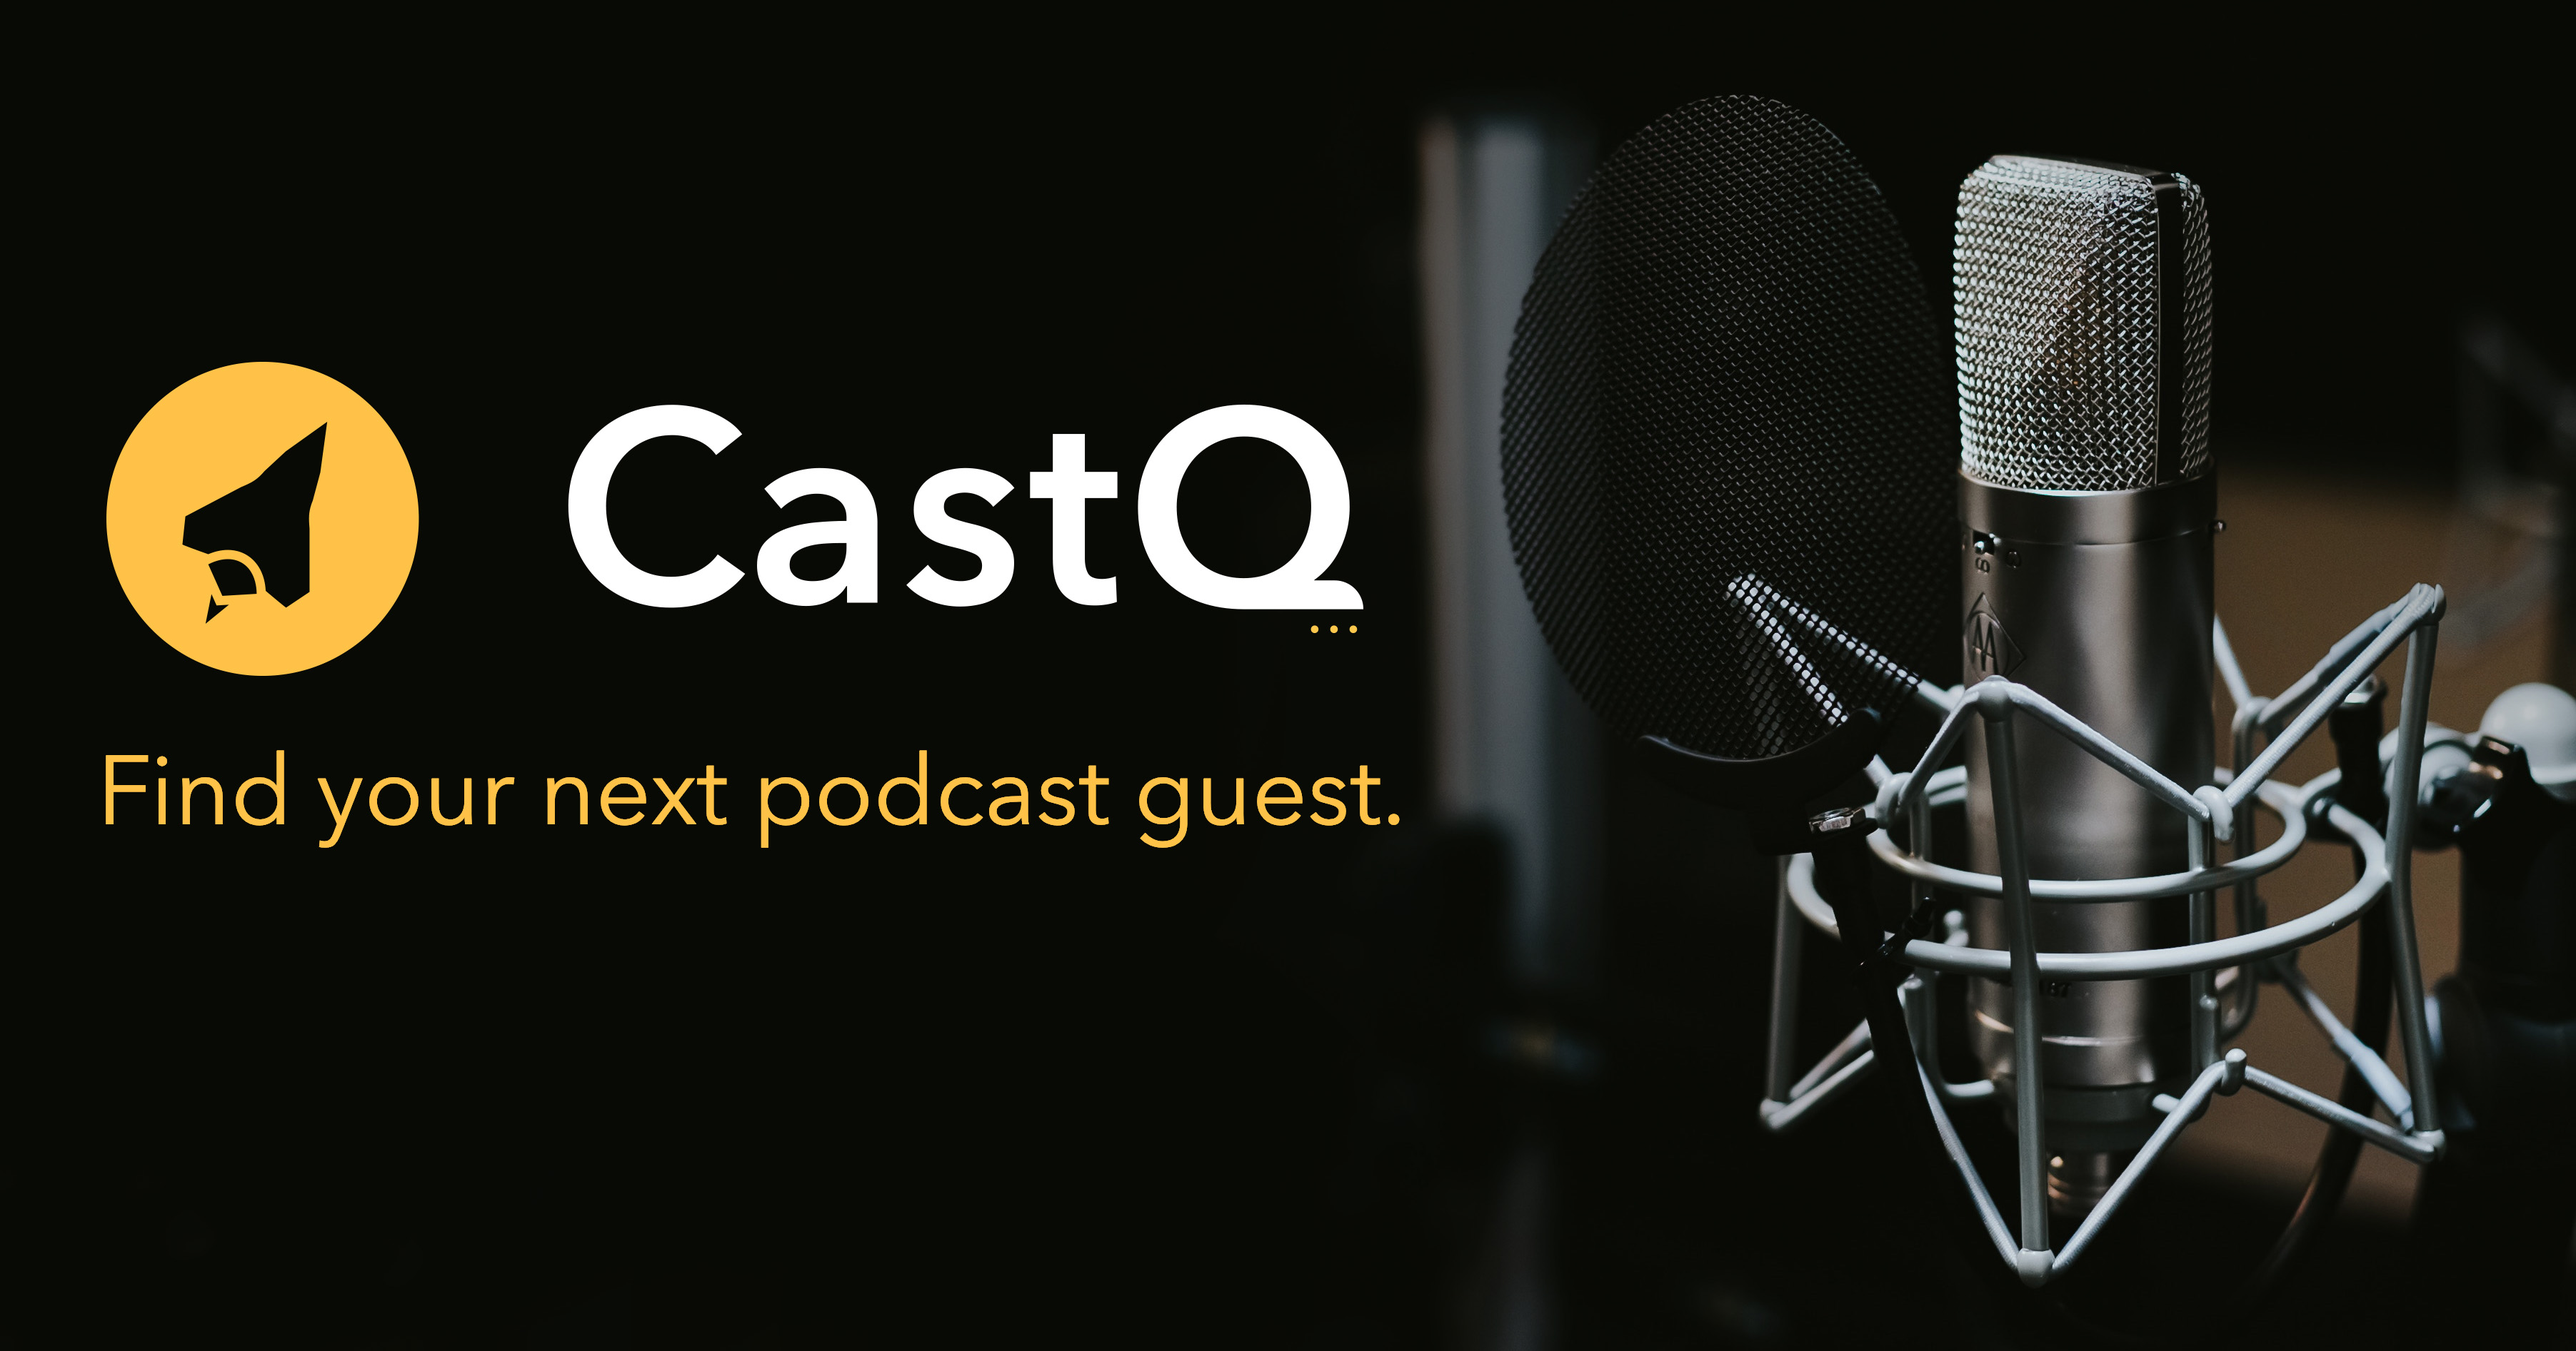
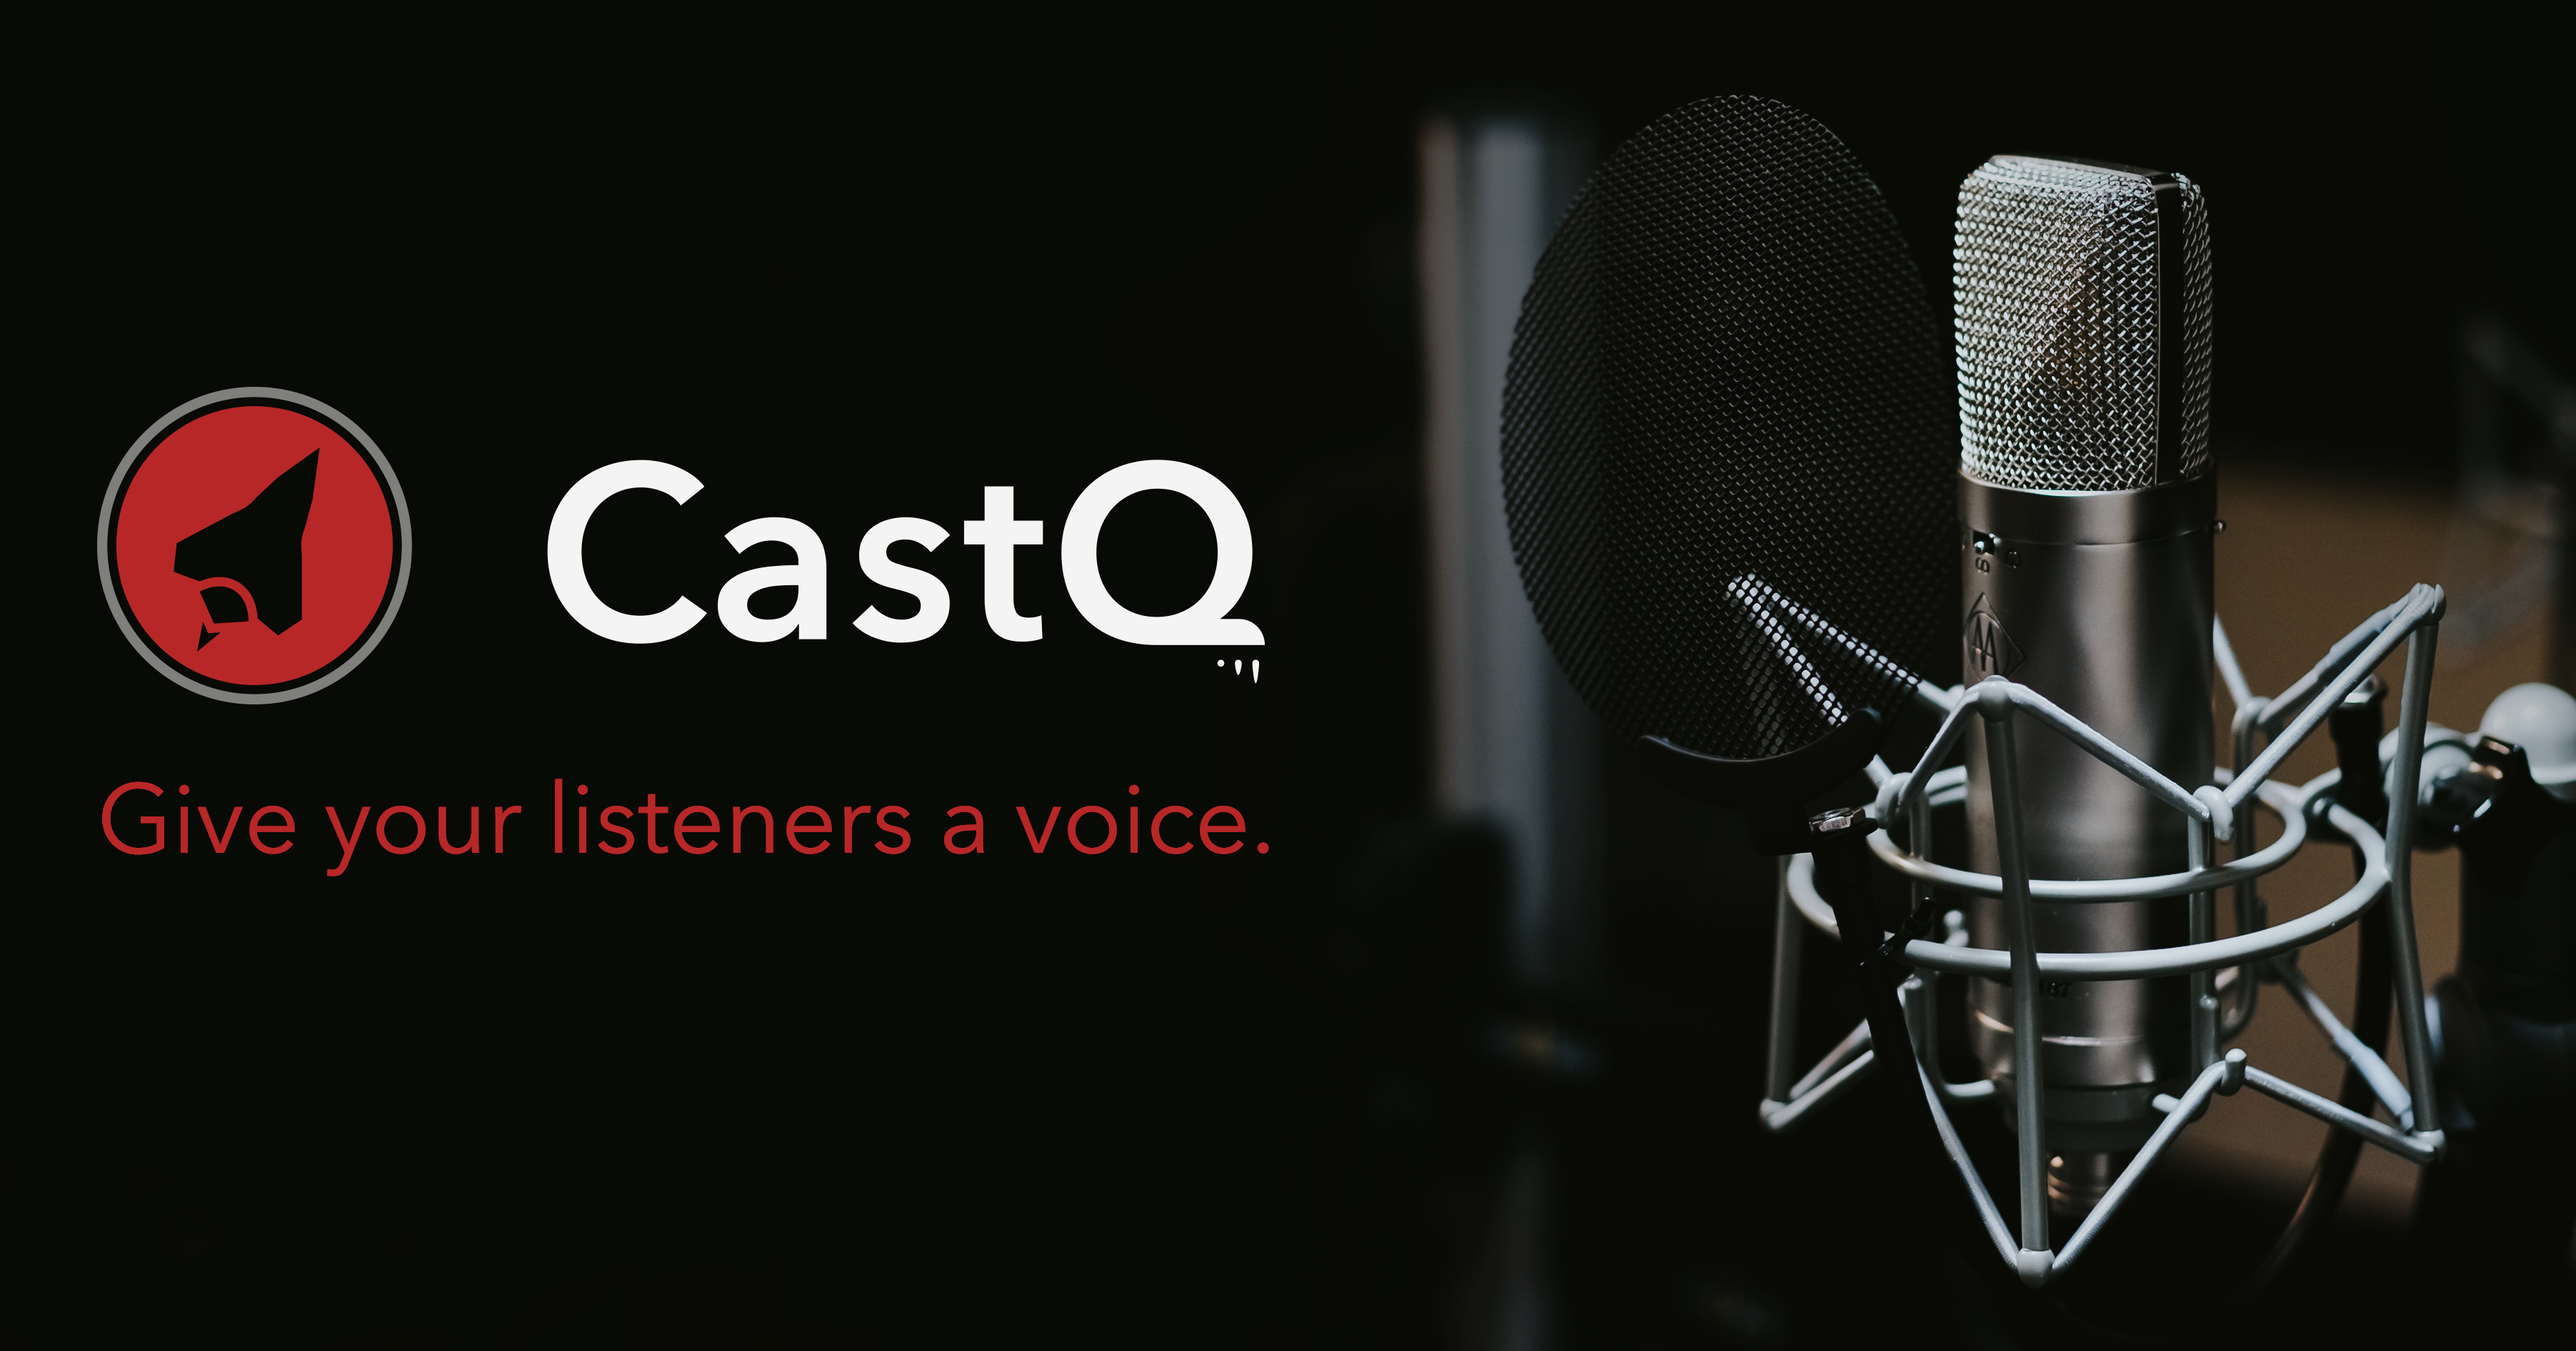
updated graphics and styles

Changed region(s): [[0.0311, 0.2493, 0.5279, 0.5298], [0.0311, 0.561, 0.5589, 0.6545]]

diff --git a/src/containers/Home.tsx b/src/containers/Home.tsx
@@ -1,107 +1,39 @@
 import React from 'react'
 import styled from 'styled-components';
+import logoImg from '../img/castQ-logo-horizontal.png';
 
-import Form from '../components/Form';
-import logoImg from 'img/castQ-logo.png';
-import orbitInnerImg from 'img/orbit-inner.png';
-import orbitOuterImg from 'img/orbit-outer.png';
+// import Form from '../components/Form';
 
-const LogoContainer = styled.div`
-    max-width: 220px;
-    margin: 24px auto;
-    img {
-        width: 100%;
-    }
+const TopSection = styled.div`
+    padding: 32px 0;
+    background: #ffffff; /* Old browsers */
+    background: -moz-linear-gradient(-45deg, #ffffff 0%, #efefef 100%); /* FF3.6-15 */
+    background: -webkit-linear-gradient(-45deg, #ffffff 0%,#efefef 100%); /* Chrome10-25,Safari5.1-6 */
+    background: linear-gradient(135deg, #ffffff 0%,#efefef 100%); /* W3C, IE10+, FF16+, Chrome26+, Opera12+, Safari7+ */
+    filter: progid:DXImageTransform.Microsoft.gradient( startColorstr='#ffffff', endColorstr='#efefef',GradientType=1 ); /* IE6-9 fallback on horizontal gradient */
 `;
 
-const OrbitContainer = styled.div`
-    width: 90px;
-    height: 80px;
-    position: relative;
-   
-    img {
-        width: 100%;
-        position: absolute;
-        
-        &.inner {
-            -webkit-animation: rotation 30s infinite linear;
-        }
-        &.outer {
-            -webkit-animation: rotation-reverse 40s infinite linear;
-        }
-    }
-    
-    @media screen and (max-width: 400px) {
-        display: none;
-    }
+const Inner = styled.div`
+    width: 750px;
+    margin: 0 auto;
 `;
 
-const MainContainer = styled.div`
-    display: flex;
-    margin-top: 48px;
-    
-    .left {
-        width: 50%;
-    }
-    
-    .left a {
-        color: #ffffff;
-    }
-    
-    .right {
-        width: 40%;
-        margin-left: 10%;
-    }
-    
-    @media screen and (max-width: 600px) {
-        display: block;
-        
-        .left, .right {
-            width: 100%;
-            margin: 20px 0;
-        }
-        
-        .left {
-            text-align: center;
-        }
-    }
+const Logo = styled.img`
+    max-width: 120px;
 `;
 
 export default () => (
     <div>
-        <LogoContainer>
-            <img src={logoImg} alt="CastQ"/>
-        </LogoContainer>
-        <div style={{textAlign: 'center'}}>
-            <h1>Find your next podcast guest.</h1>
-        </div>
-
-        <div style={{display: 'flex', marginTop: '24px', alignItems: 'center'}}>
-            <OrbitContainer>
-                <img src={orbitInnerImg} className={`inner`}/>
-                <img src={orbitOuterImg} className={`outer`}/>
-            </OrbitContainer>
-            <p className={`intro`} style={{width: '100%'}}>
-                Podcast guests are the lifeblood of lively, informative, entertaining conversations.
-                CastQ helps connect you with the people that you, and your audience, want to hear from.
-            </p>
-        </div>
-
-        <MainContainer>
-            <div className={`left`}>
-                <h2>Are you a podcast host?</h2>
-                <p>We’re podcast fans and, selfishly, we’d love to hear from a wider variety of voices.
-                    That’s why we’re on a mission to create a platform that connects
-                    podcasters with emerging subject-matter experts.</p>
-
-                <p>Our goal is to make it easier for you to find interesting guests to invite onto your show.
-                    We also want to help you filter out the self-promotional clutter.</p>
-
-                <p>Have any feedback? Reach out on Twitter at <a href="https://twitter.com/maplethorpej" target="_blank">@maplethorpej.</a></p>
-            </div>
-            <div className={`right`}>
-                <Form/>
-            </div>
-        </MainContainer>
+        <TopSection>
+            <header>
+                <Inner>
+                    <Logo src={logoImg} />
+                </Inner>
+            </header>
+            <Inner>
+                <h1>Give your listeners a voice.</h1>
+                <p>Propose topics you’d like to discuss on your podcast and let your listeners submit their questions and recommend guests.</p>
+            </Inner>
+        </TopSection>
     </div>
 )

diff --git a/src/app.css b/src/app.css
@@ -1,62 +1,25 @@
 body {
-    font-family: 'HelveticaNeue-Light', 'Helvetica Neue Light', 'Helvetica Neue',
-    Helvetica, Arial, 'Lucida Grande', sans-serif;
+    font-family: open-sans, sans-serif;
     font-weight: 300;
     font-size: 16px;
-    margin: 0 0 48px;
+    margin: 0;
     padding: 0;
-    color: #fff;
-    background-color: #E35446;
-}
-
-img {
-    max-width: 100%;
-}
-
-.content {
-    max-width: 680px;
-    padding: 0 10px;
-    margin: 0 auto;
+    color: #707070;
+    background-color: #FFF;
 }
 
 h1, h2, h3, h4, h5 {
-    font-family: "Filson Pro", sans-serif;
-    margin: 0;
+    font-family: filson-soft, sans-serif;
 }
 
 h1 {
-    font-size: 2.85em;
-    font-weight: 200;
-    margin: 8px 0;
-    padding-bottom: 16px;
-    display: inline-block;
-    border-bottom: 2px solid #FFC84D;
-}
-
-h2 {
-    color: #FFC84D;
-    font-size: 1.8em;
-    margin: 0 0 18px;
-    font-weight: 300;
-}
-
-h5 {
-    color: #E35446;
-    font-size: 1.2em;
+    color: #b72727;
     font-weight: 400;
-    margin-bottom: 16px;
 }
 
 p {
-    font-family: "Open Sans", sans-serif;
-    line-height: 1.5em;
-    margin-bottom: 16px;
-}
-
-p.intro {
-    font-size: 1.15em;
-    line-height: 1.7em;
-    margin: 0 0 8px 24px;
+    font-size: 1.1em;
+    line-height: 1.4em;
 }
 
 ::-webkit-input-placeholder { /* Chrome/Opera/Safari */

diff --git a/static.config.js b/static.config.js
@@ -33,7 +33,7 @@ export default {
         <meta charSet="UTF-8" />
         <meta name="viewport" content="width=device-width, initial-scale=1" />
         {renderMeta.faviconsElements}
-        <title>CastQ – Find your next podcast guest</title>
+        <title>CastQ – Give your listeners a voice</title>
         <link rel="stylesheet" href="https://use.typekit.net/eme3hjr.css" />
         <meta property="og:title" content="CastQ" />
         <meta property="og:url" content="https://castq.io" />
